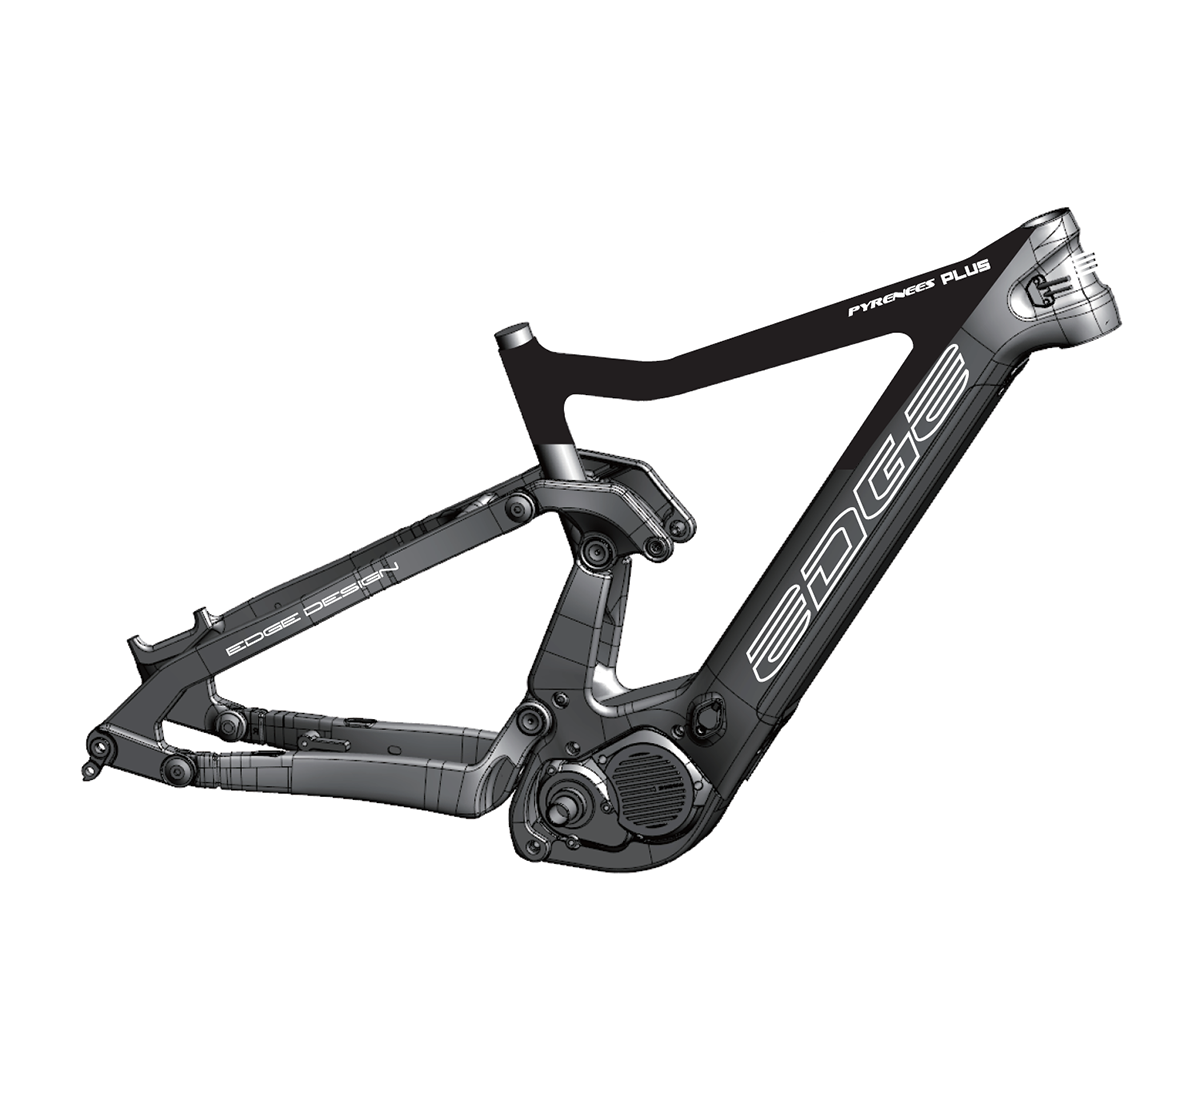
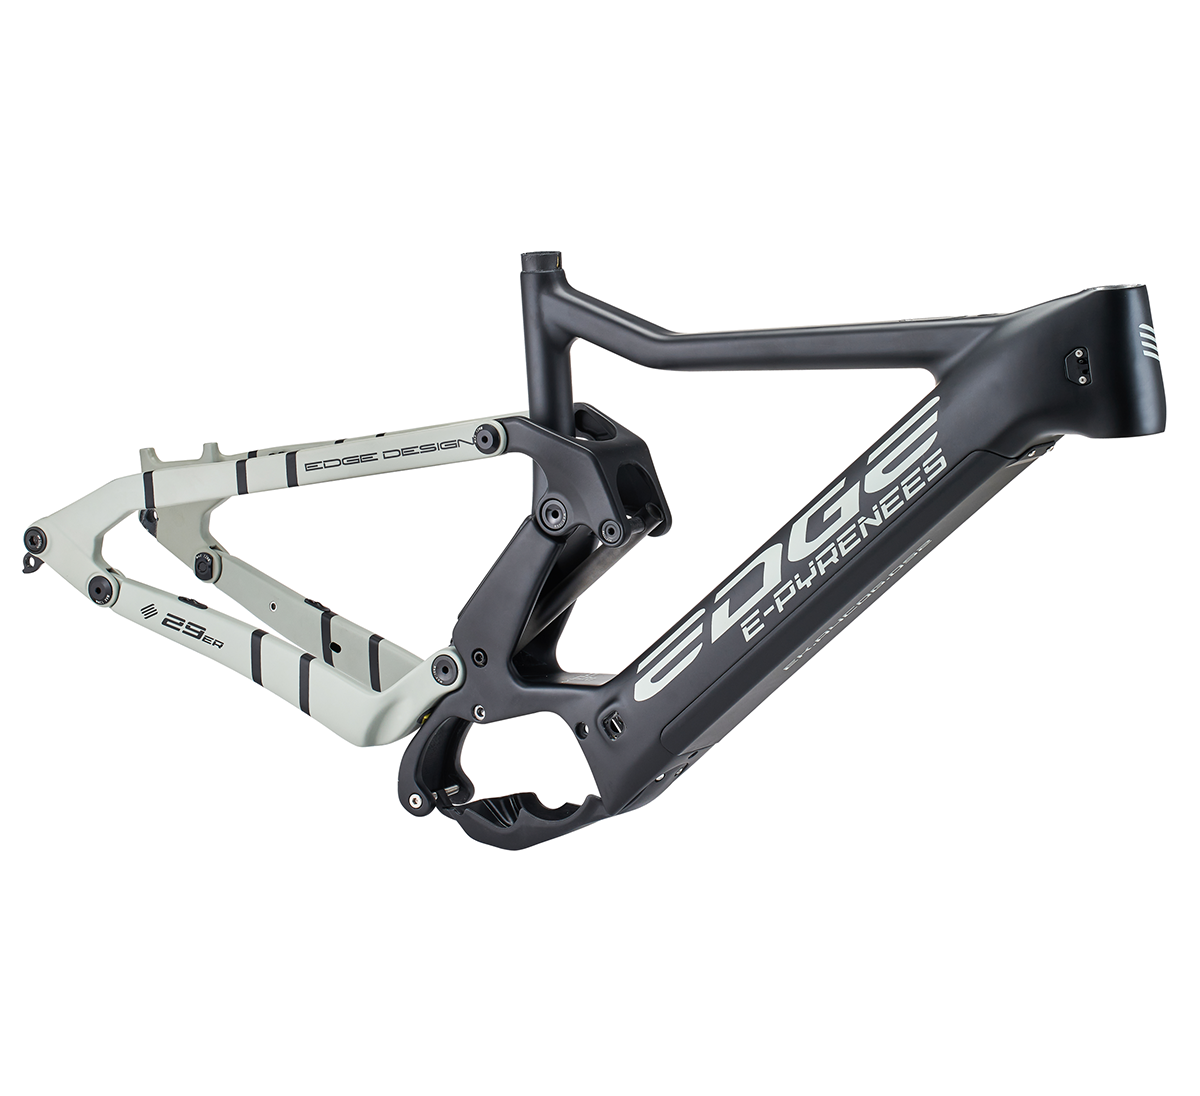
EBIKE UPDATED

Changed region(s): [[0.0, 0.1861, 0.9867, 0.8066]]

diff --git a/Spec-E PYRENEES PLUS 150.html b/Spec-E PYRENEES PLUS 150.html
@@ -1,6 +1,6 @@
 ---
 layout: default
-title: E PYRENEES PLUS 160 Specifications
+title: E PYRENEES PLUS 150 Specifications
 description: Framesets e-bike
 menu: ['framesets', 'e-bike']
 permalink: 
@@ -11,15 +11,15 @@ date: 2023/03/20
     <div class="container">
         <div class="row">
             <div class="col-xs-12 col-md-7">
-                <h2>E PYRENEES PLUS 160</h2>
-                <img src="images/portfolio/Spec/E PYRENEES PLUS 160.png" style="float:left;">
+                <h2>E PYRENEES PLUS 150</h2>
+                <img src="images/portfolio/Spec/E PYRENEES PLUS 150.png" style="float:left;">
             </div>
             <div class="col-xs-12 col-md-5">
                 <h2>Specifications</h2>
                 <table>
                     <tr>
                         <th>Feature</th>
-                        <td>29"/27.5" carbon monocoque FULLY MTB E-BIKE frame, rear shock eye to eye 185mm, travel 160mm, for SHIMANO EP-801 motor, battery: DARFON EK.A4C0G.0S2 720WH; post mount 180mm, disc. Tyre: 29*2.6" or 27.5*3.0".</td>
+                        <td>29"/27.5" carbon monocoque FULLY MTB E-BIKE frame, rear shock eye to eye 185mm, travel 150mm, for SHIMANO EP-801 motor, battery: SHIMANO BT_E8036; post mount 180mm, disc. Tyre: 29*2.35" or 27.5*3.0".</td>
                     </tr>
                     <tr>
                         <th>Headtube</th>
@@ -31,11 +31,11 @@ date: 2023/03/20
                     </tr>
                     <tr>
                         <th>Size</th>
-                        <td>S/M/L</td>
+                        <td>S/M/L/XL</td>
                     </tr>
                     <tr>
                         <th>Weight (frame)</th>
-                        <td>3800g +/- 30g (Size: M)</td>
+                        <td>3700g +/- 30g (Size: M)</td>
                     </tr>
                     <tr>
                         <th>BB Type</th>
@@ -65,6 +65,7 @@ date: 2023/03/20
     			  <th>S</th>
     			  <th>SC</th>
     			  <th>O</th>
+				  <th>I</th>
     			  <th>HS</th>
     			  <th>HC</th>
     			  <th>F</th>
@@ -73,66 +74,82 @@ date: 2023/03/20
     			  <th>FC</th>
     			  <th>RC</th>
     			  <th>G</th>
-				  <th>I</th>
     			  <th>Reach</th>
     			  <th>Stack</th>
   			</tr>
   			<tr>
     			  <th>S</th><!--/Size-->
-    			  <td>406</td><!--/S-->
-    			  <td>75∘</td><!--/SC-->
-    			  <td>590</td><!--/O-->
-    			  <td>110</td><!--/HS-->
+    			  <td>400</td><!--/S-->
+    			  <td>74∘</td><!--/SC-->
+    			  <td>585</td><!--/O-->
+				  <td>176.5</td><!--/I-->
+    			  <td>120</td><!--/HS-->
     			  <td>66∘</td><!--/HC-->
-    			  <td>571</td><!--/F-->
+    			  <td>561</td><!--/F-->
     			  <td>51</td><!--/OT-->
-    			  <td>1102</td><!--/WB-->
-    			  <td>748</td><!--/FC-->
-    			  <td>450</td><!--/RC-->
+    			  <td>1191.6</td><!--/WB-->
+    			  <td>732</td><!--/FC-->
+    			  <td>460</td><!--/RC-->
     			  <td>15</td><!--/G-->
-				  <td>161.5</td><!--/I-->
-    			  <td>433.2</td><!--/REACH-->
-    			  <td>614.4</td><!--/STACK-->
+    			  <td>408.2</td><!--/REACH-->
+    			  <td>616.4</td><!--/STACK-->
             </tr>
             <tr>
     			  <th>M</th><!--/Size-->
-    			  <td>457</td><!--/S-->
-    			  <td>75∘</td><!--/SC-->
+    			  <td>440</td><!--/S-->
+    			  <td>74∘</td><!--/SC-->
     			  <td>601</td><!--/O-->
-    			  <td>120</td><!--/HS-->
+				  <td>179.4</td><!--/I-->
+    			  <td>130</td><!--/HS-->
     			  <td>66∘</td><!--/HC-->
-    			  <td>571</td><!--/F-->
+    			  <td>561</td><!--/F-->
     			  <td>51</td><!--/OT-->
-    			  <td>1220</td><!--/WB-->
-    			  <td>770.7</td><!--/FC-->
-    			  <td>450</td><!--/RC-->
+    			  <td>1209</td><!--/WB-->
+    			  <td>746.9</td><!--/FC-->
+    			  <td>460</td><!--/RC-->
     			  <td>15</td><!--/G-->
-				  <td>167.1</td><!--/I-->
-    			  <td>442.9</td><!--/REACH-->
+    			  <td>412.5</td><!--/REACH-->
     			  <td>625.5</td><!--/STACK-->
             </tr>
             <tr>
     			  <th>L</th><!--/Size-->
-    			  <td>508</td><!--/S-->
-    			  <td>75∘</td><!--/SC-->
-    			  <td>630</td><!--/O-->
-    			  <td>130</td><!--/HS-->
+    			  <td>483</td><!--/S-->
+    			  <td>74∘</td><!--/SC-->
+    			  <td>620</td><!--/O-->
+				  <td>182.6</td><!--/I-->
+    			  <td>140</td><!--/HS-->
     			  <td>66∘</td><!--/HC-->
-    			  <td>571</td><!--/F-->
+    			  <td>561</td><!--/F-->
     			  <td>51</td><!--/OT-->
-    			  <td>1240</td><!--/WB-->
-    			  <td>790.4</td><!--/FC-->
-    			  <td>450</td><!--/RC-->
+    			  <td>1229</td><!--/WB-->
+    			  <td>769.4</td><!--/FC-->
+    			  <td>460</td><!--/RC-->
     			  <td>15</td><!--/G-->
-				  <td>170.6</td><!--/I-->
-    			  <td>462.5</td><!--/REACH-->
-    			  <td>632.7</td><!--/STACK-->
+    			  <td>437.5</td><!--/REACH-->
+    			  <td>634.7</td><!--/STACK-->
             </tr>
+			<tr>
+				<th>XL</th><!--/Size-->
+				<td>520</td><!--/S-->
+				<td>74∘</td><!--/SC-->
+				<td>640</td><!--/O-->
+				<td>184.2</td><!--/I-->
+				<td>150</td><!--/HS-->
+				<td>66∘</td><!--/HC-->
+    			<td>561</td><!--/F-->
+    			<td>51</td><!--/OT-->
+				<td>1251.4</td><!--/WB-->
+				<td>791.8</td><!--/FC-->
+				<td>460</td><!--/RC-->
+    			<td>15</td><!--/G-->
+				<td>455.8</td><!--/REACH-->
+				<td>643.8</td><!--/STACK-->
+		  </tr>
   	     </table>
         </div>
 
     <div class="col-xs-12 col-md-5">
-        <img class="img-responsive" src="images/portfolio/geometry/E PYRENEES PLUS 160- Geometry.jpg" style="float:right;">
+        <img class="img-responsive" src="images/portfolio/geometry/E PYRENEES PLUS 150- Geometry.jpg" style="float:right;">
         </div>
         </div><!--row--> 
     </div><!--container-->

diff --git a/Spec-E PINNACLE PLUS.html b/Spec-E PINNACLE PLUS.html
@@ -1,6 +1,6 @@
 ---
 layout: default
-title: E PYRENEES PLUS 160 Specifications
+title: E PINNACLE PLUS Specifications
 description: Framesets e-bike
 menu: ['framesets', 'e-bike']
 permalink: 
@@ -11,15 +11,15 @@ date: 2023/03/20
     <div class="container">
         <div class="row">
             <div class="col-xs-12 col-md-7">
-                <h2>E PYRENEES PLUS 160</h2>
-                <img src="images/portfolio/Spec/E PYRENEES PLUS 160.png" style="float:left;">
+                <h2>E PINNACLE PLUS</h2>
+                <img src="images/portfolio/Spec/E PINNACLE PLUS.png" style="float:left;">
             </div>
             <div class="col-xs-12 col-md-5">
                 <h2>Specifications</h2>
                 <table>
                     <tr>
                         <th>Feature</th>
-                        <td>29"/27.5" carbon monocoque FULLY MTB E-BIKE frame, rear shock eye to eye 185mm, travel 160mm, for SHIMANO EP-801 motor, battery: DARFON EK.A4C0G.0S2 720WH; post mount 180mm, disc. Tyre: 29*2.6" or 27.5*3.0".</td>
+                        <td>29"/27.5" Carbon FULLY MTB E-bike frame, for SHIMANO EP801 motor; battery: SHIMANO BT_E8036; post mount 160mm. Tyre: 29*2.35" or 27.5*3.0".</td>
                     </tr>
                     <tr>
                         <th>Headtube</th>
@@ -35,7 +35,7 @@ date: 2023/03/20
                     </tr>
                     <tr>
                         <th>Weight (frame)</th>
-                        <td>3800g +/- 30g (Size: M)</td>
+                        <td>2300g +/- 30g (Size: M)</td>
                     </tr>
                     <tr>
                         <th>BB Type</th>
@@ -65,74 +65,74 @@ date: 2023/03/20
     			  <th>S</th>
     			  <th>SC</th>
     			  <th>O</th>
+                  <th>I</th>
     			  <th>HS</th>
     			  <th>HC</th>
-    			  <th>F</th>
+                  <th>F</th>
     			  <th>OT</th>
     			  <th>WB</th>
-    			  <th>FC</th>
+                  <th>FC</th>
     			  <th>RC</th>
     			  <th>G</th>
-				  <th>I</th>
     			  <th>Reach</th>
     			  <th>Stack</th>
   			</tr>
   			<tr>
     			  <th>S</th><!--/Size-->
-    			  <td>406</td><!--/S-->
-    			  <td>75∘</td><!--/SC-->
-    			  <td>590</td><!--/O-->
+    			  <td>400</td><!--/S-->
+    			  <td>74.5∘</td><!--/SC-->
+    			  <td>580</td><!--/O-->
+                  <td>170.2</td><!--/I-->
     			  <td>110</td><!--/HS-->
-    			  <td>66∘</td><!--/HC-->
-    			  <td>571</td><!--/F-->
+    			  <td>67.5∘</td><!--/HC-->
+                  <td>511</td><!--/F-->
     			  <td>51</td><!--/OT-->
-    			  <td>1102</td><!--/WB-->
-    			  <td>748</td><!--/FC-->
+    			  <td>1140.6</td><!--/WB-->
+                  <td>697.2</td><!--/FC-->
     			  <td>450</td><!--/RC-->
-    			  <td>15</td><!--/G-->
-				  <td>161.5</td><!--/I-->
-    			  <td>433.2</td><!--/REACH-->
-    			  <td>614.4</td><!--/STACK-->
+    			  <td>60</td><!--/G-->
+    			  <td>409.8</td><!--/REACH-->
+    			  <td>614.2</td><!--/STACK-->
             </tr>
             <tr>
     			  <th>M</th><!--/Size-->
-    			  <td>457</td><!--/S-->
-    			  <td>75∘</td><!--/SC-->
-    			  <td>601</td><!--/O-->
+    			  <td>435</td><!--/S-->
+    			  <td>74.5∘</td><!--/SC-->
+    			  <td>605</td><!--/O-->
+                  <td>172.9</td><!--/I-->
     			  <td>120</td><!--/HS-->
-    			  <td>66∘</td><!--/HC-->
-    			  <td>571</td><!--/F-->
+    			  <td>67.5∘</td><!--/HC-->
+                  <td>511</td><!--/F-->
     			  <td>51</td><!--/OT-->
-    			  <td>1220</td><!--/WB-->
-    			  <td>770.7</td><!--/FC-->
+    			  <td>1166.7</td><!--/WB-->
+                  <td>723.2</td><!--/FC-->
     			  <td>450</td><!--/RC-->
-    			  <td>15</td><!--/G-->
-				  <td>167.1</td><!--/I-->
-    			  <td>442.9</td><!--/REACH-->
-    			  <td>625.5</td><!--/STACK-->
+    			  <td>60</td><!--/G-->
+    			  <td>432.1</td><!--/REACH-->
+    			  <td>623.4</td><!--/STACK-->
             </tr>
             <tr>
     			  <th>L</th><!--/Size-->
-    			  <td>508</td><!--/S-->
-    			  <td>75∘</td><!--/SC-->
-    			  <td>630</td><!--/O-->
+    			  <td>485</td><!--/S-->
+    			  <td>74.5∘</td><!--/SC-->
+    			  <td>625</td><!--/O-->
+                  <td>175.5</td><!--/I-->
     			  <td>130</td><!--/HS-->
-    			  <td>66∘</td><!--/HC-->
-    			  <td>571</td><!--/F-->
+    			  <td>67.5∘</td><!--/HC-->
+                  <td>511</td><!--/F-->
     			  <td>51</td><!--/OT-->
-    			  <td>1240</td><!--/WB-->
-    			  <td>790.4</td><!--/FC-->
+    			  <td>1187.9</td><!--/WB-->
+                  <td>744.3</td><!--/FC-->
     			  <td>450</td><!--/RC-->
-    			  <td>15</td><!--/G-->
-				  <td>170.6</td><!--/I-->
-    			  <td>462.5</td><!--/REACH-->
+    			  <td>60</td><!--/G-->
+    			  <td>449.5</td><!--/REACH-->
     			  <td>632.7</td><!--/STACK-->
             </tr>
   	     </table>
         </div>
 
-    <div class="col-xs-12 col-md-5">
-        <img class="img-responsive" src="images/portfolio/geometry/E PYRENEES PLUS 160- Geometry.jpg" style="float:right;">
+        <div class="col-xs-12 col-md-5">
+        <img src="images/portfolio/geometry/E PINNACLE PLUS- Geometry.jpg" style="float:right;">
         </div>
         </div><!--row--> 
     </div><!--container-->

diff --git a/ebike.html b/ebike.html
@@ -4,7 +4,7 @@ title: E-Bike
 description: framesets
 menu: ['framesets', 'e-bike']
 permalink: 
-date: 2022/08/08
+date: 2023/03/20
 ---
 
 <section id="portfolio">
@@ -35,17 +35,43 @@ date: 2022/08/08
                 <!--/.portfolio-item-->
                 <div class="portfolio-item MTB col-xs-12 col-sm-4 col-md-3">
                     <div class="recent-work-wrap">
-                        <img class="img-responsive" src="images/portfolio/recent/E PYRENEES PLUS 160.png" alt="">
+                        <img class="img-responsive" src="images/portfolio/recent/E PINNACLE PLUS.png" alt="">
                         <div class="overlay">
                             <div class="recent-work-inner">
-                                <h3><a target="_blank" href="Spec-E PYRENEES PLUS 160.html">E PYRENEES PLUS 160 <i class="fa fa-hand-o-up"></i></a></h3>
-                                <p>Carbon monocoque 27.5" PLUS FULLY MTB E-bike frame.</p>
-                                <a class="preview" href="images/portfolio/full/E PYRENEES PLUS 160.png" rel="prettyPhoto"><i class="fa fa-eye"></i> View</a>
+                                <h3><a target="_blank" href="Spec-E PINNACLE PLUS.html">E PINNACLE PLUS <i class="fa fa-hand-o-up"></i></a></h3>
+                                <p>29"/27.5" Carbon FULLY MTB E-bike frame, for SHIMANO EP801 motor; battery: SHIMANO BT_E8036; post mount 160mm. Tyre: 29*2.35" or 27.5*3.0".</p>
+                                <a class="preview" href="images/portfolio/full/E PINNACLE PLUS.png" rel="prettyPhoto"><i class="fa fa-eye"></i> View</a>
                             </div>
                         </div>
                     </div>
                 </div>
                 <!--/.portfolio-item-->
+                <div class="portfolio-item MTB col-xs-12 col-sm-4 col-md-3">
+                    <div class="recent-work-wrap">
+                        <img class="img-responsive" src="images/portfolio/recent/E PYRENEES PLUS 150.png" alt="">
+                        <div class="overlay">
+                            <div class="recent-work-inner">
+                                <h3><a target="_blank" href="Spec-E PYRENEES PLUS 150.html">E PYRENEES PLUS 150 <i class="fa fa-hand-o-up"></i></a></h3>
+                                <p>29"/27.5" carbon monocoque FULLY MTB E-BIKE frame, rear shock eye to eye 185mm, travel 150mm, for SHIMANO EP-801 motor, battery: SHIMANO BT_E8036; post mount 180mm, disc. Tyre: 29*2.35" or 27.5*3.0".</p>
+                                <a class="preview" href="images/portfolio/full/E PYRENEES PLUS 150.png" rel="prettyPhoto"><i class="fa fa-eye"></i> View</a>
+                            </div>
+                        </div>
+                    </div>
+                </div>
+                <!--/.portfolio-item-->
+                <div class="portfolio-item MTB col-xs-12 col-sm-4 col-md-3">
+                    <div class="recent-work-wrap">
+                        <img class="img-responsive" src="images/portfolio/recent/E PYRENEES PLUS 160.png" alt="">
+                        <div class="overlay">
+                            <div class="recent-work-inner">
+                                <h3><a target="_blank" href="Spec-E PYRENEES PLUS 160.html">E PYRENEES PLUS 160 <i class="fa fa-hand-o-up"></i></a></h3>
+                                <p>29"/27.5" carbon monocoque FULLY MTB E-BIKE frame, rear shock eye to eye 185mm, travel 160mm, for SHIMANO EP-801 motor, battery: DARFON EK.A4C0G.0S2 720WH; post mount 180mm, disc. Tyre: 29*2.6" or 27.5*3.0".</p>
+                                <a class="preview" href="images/portfolio/full/E PYRENEES PLUS 160.png" rel="prettyPhoto"><i class="fa fa-eye"></i> View</a>
+                            </div>
+                        </div>
+                    </div>
+                </div>
+                <!--/.portfolio-item 0320/2023更新E PYRENEES PLUS 160-->
                 <div class="portfolio-item MTB col-xs-12 col-sm-4 col-md-3">
                     <div class="recent-work-wrap">
                         <img class="img-responsive" src="images/portfolio/recent/E PYRENEES PLUS.png" alt="">
